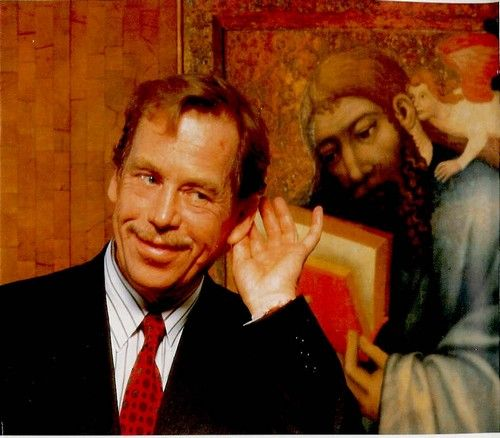
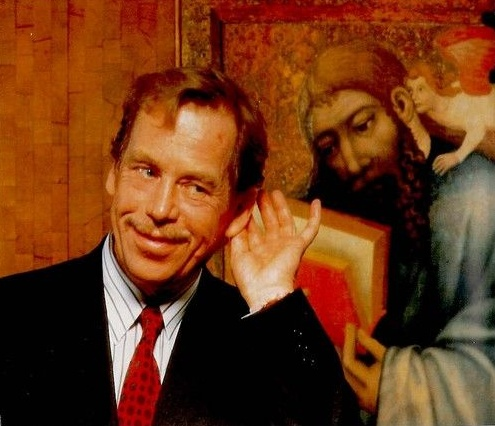
open graph actualities

diff --git a/actualities.html b/actualities.html
@@ -10,11 +10,11 @@
     <meta property="og:locale" content="cs_CZ" />
     <meta property="og:type" content="article" />
     <meta property="og:title" content="Monday Fight - Aktuality" />
-    <meta property="og:description" content="Jouzoleán oznamuje pravidla letošního Play OFF!" />
+    <meta property="og:description" content="Ve žhavém počasí nežhavé utahané aktuality" />
     <meta property="og:site_name" content="github" />
 
     <!-- for Facebook -->
-    <meta property="og:image" content="https://bebul.github.io/MondayFight/img/mf-league-og.jpg" />
+    <meta property="og:image" content="https://bebul.github.io/MondayFight/img/havel-evangelista.jpg" />
     <meta property="og:image:type" content="image/jpg" />
     <meta property="og:image:alt" content="The Hot News" />
 
